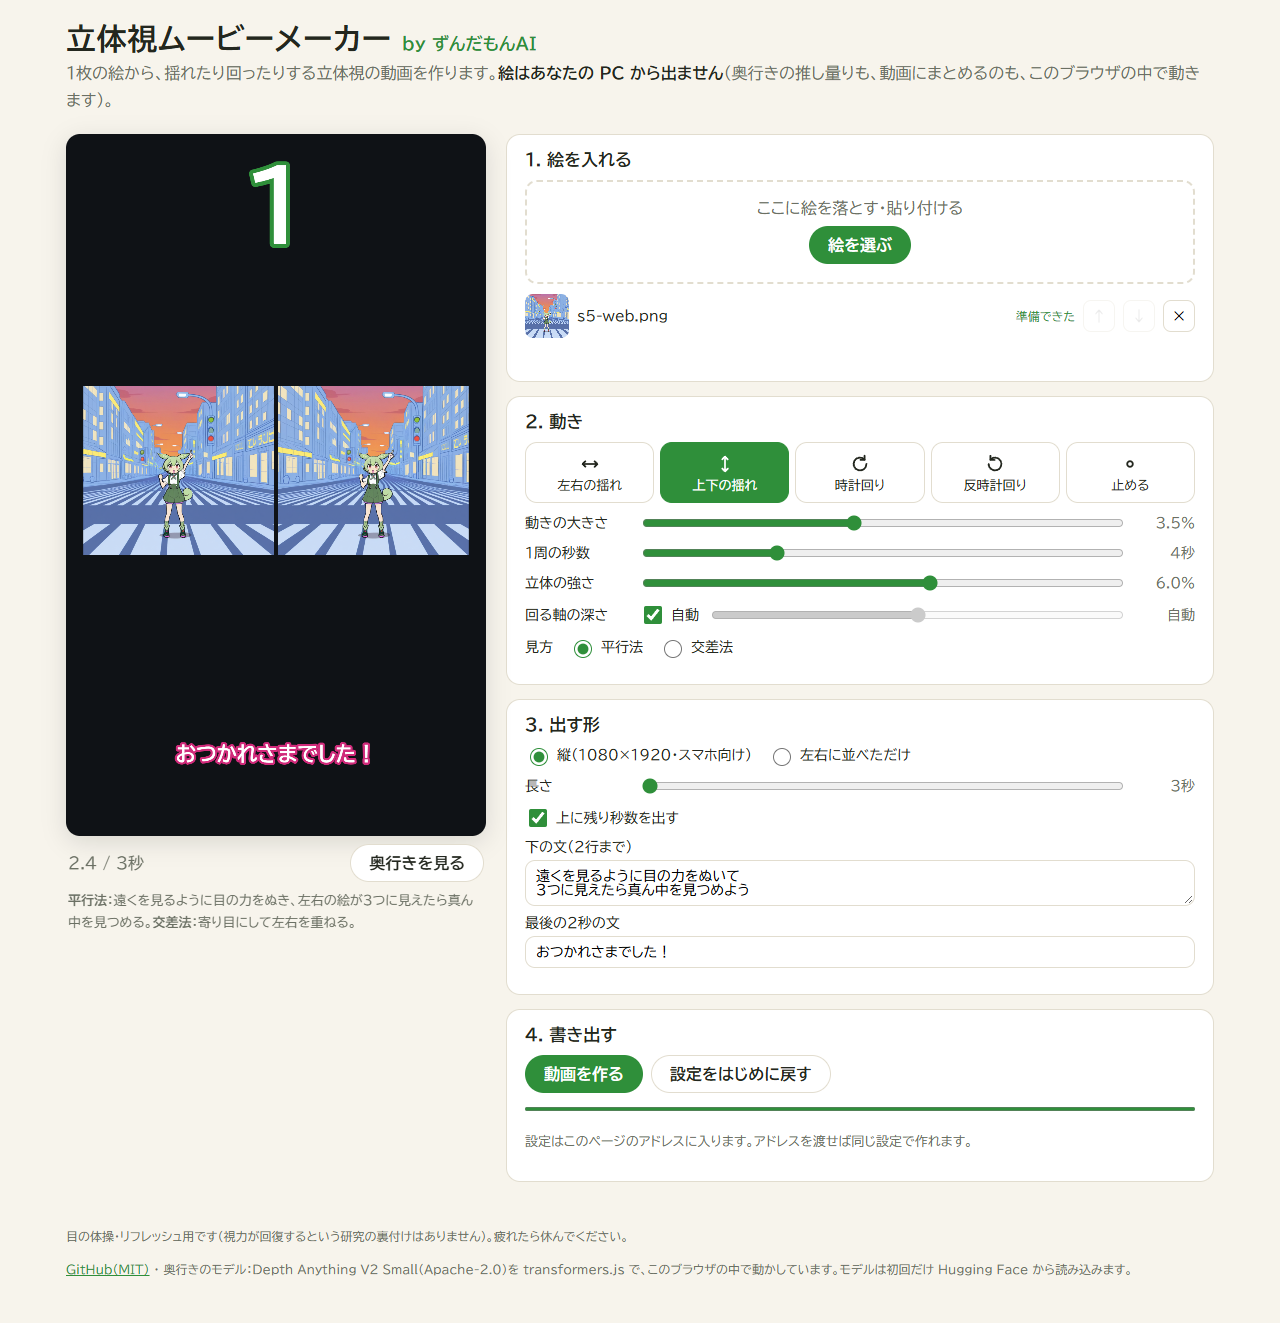
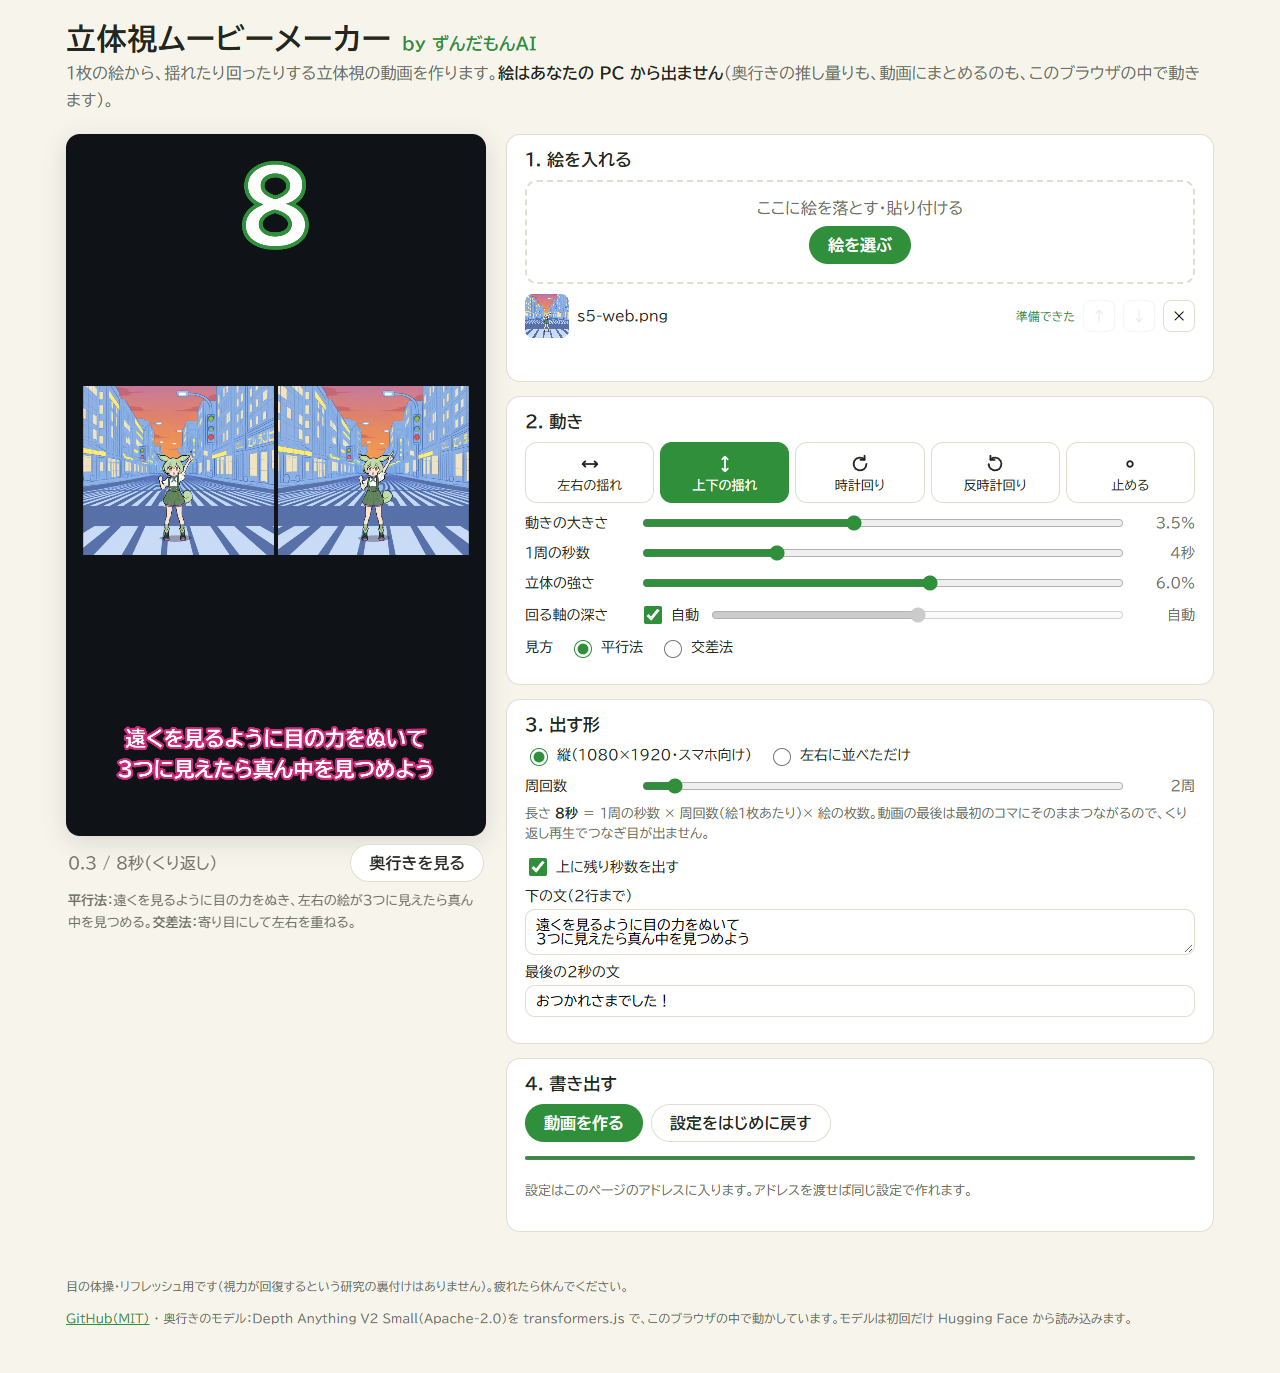
動画をいつも永久ループに：長さ＝1周×周回数×枚数だけ・最後と最初が同じコマにならない・検査（check:loop）・AI の口は頼むたびにはじめの設定から

diff --git a/src/scene.ts b/src/scene.ts
@@ -18,8 +18,7 @@ export type Settings = {
   pivot: number; // 回る軸の深さ（0＝一番奥・1＝一番手前・-1＝絵ごとに自動）
   view: 'parallel' | 'cross'; // 平行法／交差法
   layout: 'portrait' | 'sbs'; // 縦 1080×1920 のまん中／横並びそのまま
-  seconds: number; // 動画の長さ
-  perImage: number; // 1枚あたりの秒数（絵が2枚以上のとき）
+  cycles: number; // 1枚あたりの周回数（長さ＝1周の秒数×周回数×絵の枚数＝必ず最初のコマにつながる）
   countdown: boolean; // 残り秒数を出す
   caption: string; // 下の文（改行で2行まで）
   endText: string; // 最後の2秒に下の文の代わりに出す文
@@ -34,8 +33,7 @@ export const DEFAULTS: Settings = {
   pivot: -1,
   view: 'parallel',
   layout: 'portrait',
-  seconds: 15,
-  perImage: 10,
+  cycles: 4,
   countdown: true,
   caption: '遠くを見るように目の力をぬいて\n3つに見えたら真ん中を見つめよう',
   endText: 'おつかれさまでした！',
@@ -48,22 +46,28 @@ export function clampSettings(s: Settings): Settings {
     ...s,
     motion: MOTIONS.some((m) => m.id === s.motion) ? s.motion : DEFAULTS.motion,
     amount: n(s.amount, 0, 10, DEFAULTS.amount),
-    period: n(s.period, 1, 30, DEFAULTS.period),
+    // 1周がちょうど整数のコマになるように丸める（最後のコマの次が最初のコマにつながる）
+    period: Math.max(1, Math.round(n(s.period, 1, 30, DEFAULTS.period) * n(s.fps, 10, 60, 30)) / n(s.fps, 10, 60, 30)),
     stereo: n(s.stereo, 0, 12, DEFAULTS.stereo),
     pivot: s.pivot < 0 ? -1 : n(s.pivot, 0, 1, 0.5),
     view: s.view === 'cross' ? 'cross' : 'parallel',
     layout: s.layout === 'sbs' ? 'sbs' : 'portrait',
-    seconds: n(s.seconds, 1, 180, DEFAULTS.seconds),
-    perImage: n(s.perImage, 1, 180, DEFAULTS.perImage),
+    cycles: Math.round(n(s.cycles, 1, 60, DEFAULTS.cycles)),
     fps: n(s.fps, 10, 60, 30),
     caption: String(s.caption ?? '').slice(0, 120),
     endText: String(s.endText ?? '').slice(0, 60),
   };
 }
 
+// 長さは「1周×周回数×絵の枚数」でしか決まらない＝動画はいつも永久ループになる（本人 2026-10-26「最初の画像に戻れば永久ループに」）
+export const framesPerCycle = (s: Settings) => Math.max(1, Math.round(s.period * s.fps));
+export const totalFrames = (s: Settings, images: number) => framesPerCycle(s) * s.cycles * Math.max(1, images);
+export const totalSeconds = (s: Settings, images: number) => totalFrames(s, images) / s.fps;
+const perImageSeconds = (s: Settings) => (framesPerCycle(s) * s.cycles) / s.fps;
+
 // カメラの位置（幅に対する割合の単位・下が＋）
 function cam(s: Settings, t: number): [number, number] {
-  const a = s.amount / 100, w = (2 * Math.PI * t) / s.period;
+  const a = s.amount / 100, w = (2 * Math.PI * t) / (framesPerCycle(s) / s.fps);
   switch (s.motion) {
     case 'sway-x': return [a * Math.sin(w), 0];
     case 'sway-y': return [0, a * Math.sin(w)];
@@ -120,7 +124,7 @@ export function outputSize(s: Settings, layers: Layer[]): [number, number] {
 
 export function layerAt(s: Settings, layers: Layer[], t: number): Layer {
   if (layers.length <= 1) return layers[0];
-  const i = Math.floor(t / s.perImage) % layers.length;
+  const i = Math.floor(t / perImageSeconds(s) + 1e-9) % layers.length;
   return layers[i];
 }
 
@@ -165,7 +169,7 @@ export function drawFrame(r: Renderer, f: Frame, s: Settings, layers: Layer[], t
   ctx.textBaseline = 'middle';
   ctx.lineJoin = 'round';
   if (s.countdown) {
-    const left = Math.max(0, Math.ceil(s.seconds - t - 1e-6));
+    const left = Math.max(0, Math.ceil(totalSeconds(s, layers.length) - t - 1e-6));
     ctx.font = `900 260px ${FONT}`;
     ctx.lineWidth = 22;
     ctx.strokeStyle = '#2f8f3a';
@@ -173,7 +177,7 @@ export function drawFrame(r: Renderer, f: Frame, s: Settings, layers: Layer[], t
     ctx.fillStyle = '#ffffff';
     ctx.fillText(String(left), W / 2, boxTop / 2 + 10);
   }
-  const ending = s.endText && s.seconds - t <= 2;
+  const ending = s.endText && totalSeconds(s, layers.length) - t <= 2;
   const lines = (ending ? s.endText : s.caption).split('\n').slice(0, 2).filter(Boolean);
   ctx.font = `700 56px ${FONT}`;
   const below = boxTop + maxH;

diff --git a/src/main.ts b/src/main.ts
@@ -1,7 +1,7 @@
 import './style.css';
 import { prepare, loadModel, type Prepared } from './depth';
 import { Renderer, type Layer } from './render';
-import { DEFAULTS, MOTIONS, clampSettings, drawFrame, layerAt, type Settings, type Frame } from './scene';
+import { DEFAULTS, MOTIONS, clampSettings, drawFrame, layerAt, totalFrames, totalSeconds, type Settings, type Frame } from './scene';
 import { encodeVideo } from './export';
 
 // ---- 状態 ----
@@ -114,7 +114,7 @@ function renderList() {
   $('#empty').hidden = items.length > 0;
   // 奥行きは、準備できた絵があるときだけ見られる
   $<HTMLButtonElement>('#depth').disabled = !items.some((i) => i.status === 'ok');
-  $('#per-image-row').hidden = items.length < 2;
+  updateLength();
 }
 
 function status(msg: string) {
@@ -141,8 +141,7 @@ function buildControls() {
   num('amount', '#amount');
   num('period', '#period');
   num('stereo', '#stereo');
-  num('seconds', '#seconds');
-  num('perImage', '#perImage');
+  num('cycles', '#cycles');
   const pivot = $<HTMLInputElement>('#pivot'), pivotAuto = $<HTMLInputElement>('#pivotAuto');
   pivot.addEventListener('input', () => setSettings({ pivot: Number(pivot.value) / 100 }));
   pivotAuto.addEventListener('change', () => setSettings({ pivot: pivotAuto.checked ? -1 : 0.5 }));
@@ -165,8 +164,8 @@ function syncControls() {
   set('#amount', settings.amount, '#amountV', (v) => `${v.toFixed(1)}%`);
   set('#period', settings.period, '#periodV', (v) => `${v}秒`);
   set('#stereo', settings.stereo, '#stereoV', (v) => `${v.toFixed(1)}%`);
-  set('#seconds', settings.seconds, '#secondsV', (v) => `${v}秒`);
-  set('#perImage', settings.perImage, '#perImageV', (v) => `${v}秒`);
+  set('#cycles', settings.cycles, '#cyclesV', (v) => `${v}周`);
+  updateLength();
   const auto = settings.pivot < 0;
   $<HTMLInputElement>('#pivotAuto').checked = auto;
   $<HTMLInputElement>('#pivot').disabled = auto;
@@ -180,6 +179,13 @@ function syncControls() {
   const end = $<HTMLInputElement>('#endText');
   if (document.activeElement !== end) end.value = settings.endText;
   $('#text-rows').hidden = settings.layout !== 'portrait';
+}
+
+// 長さは計算で決まる（自由に決めない＝必ずループになる）
+function updateLength() {
+  const n = Math.max(1, items.filter((i) => i.status === 'ok').length);
+  const sec = totalSeconds(settings, n);
+  $('#lengthV').textContent = `${Number(sec.toFixed(2))}秒` + (n > 1 ? `（${n}枚）` : '');
 }
 
 function motionIcon(m: string): string {
@@ -198,10 +204,11 @@ let t0 = performance.now();
 function loop(now: number) {
   if (!exporting) {
     const ls = layers();
-    const t = ((now - t0) / 1000) % settings.seconds;
+    const total = totalSeconds(settings, ls.length);
+    const t = ((now - t0) / 1000) % total;
     if (showDepth && ls.length) drawDepth(layerAt(settings, ls, t));
     else drawFrame(renderer, frame, settings, ls, t);
-    $('#time').textContent = ls.length ? `${t.toFixed(1)} / ${settings.seconds}秒` : '';
+    $('#time').textContent = ls.length ? `${t.toFixed(1)} / ${Number(total.toFixed(2))}秒（くり返し）` : '';
   }
   requestAnimationFrame(loop);
 }
@@ -224,7 +231,7 @@ async function exportVideo(): Promise<{ blob: Blob; ext: string }> {
   const ls = layers();
   if (!ls.length) throw new Error('先に絵を入れてください');
   const fps = settings.fps;
-  const n = Math.round(settings.seconds * fps);
+  const n = totalFrames(settings, ls.length);
   exporting = true;
   stopFlag = false;
   try {
@@ -300,7 +307,7 @@ window.stereoMotion = {
   },
   setSettings(p: Partial<Settings>) { setSettings(p); return settings; },
   getSettings() { return settings; },
-  frameCount() { return Math.round(settings.seconds * settings.fps); },
+  frameCount() { return totalFrames(settings, layers().length); },
   frame(i: number, type = 'image/jpeg', quality = 0.95) {
     exporting = true;
     drawFrame(renderer, frame, settings, layers(), i / settings.fps);

diff --git a/index.html b/index.html
@@ -33,7 +33,6 @@
       </div>
       <p id="empty" class="muted">何枚でも入れられます。2枚以上なら順番に切り替わります。</p>
       <ul id="items" class="items"></ul>
-      <label id="per-image-row" class="row" hidden>1枚の秒数 <input type="range" id="perImage" min="2" max="60" step="1"><output id="perImageV"></output></label>
       <p id="status" class="status" role="status"></p>
     </div>
 
@@ -59,7 +58,8 @@
         <label class="chk"><input type="radio" name="layout" value="portrait">縦（1080×1920・スマホ向け）</label>
         <label class="chk"><input type="radio" name="layout" value="sbs">左右に並べただけ</label>
       </div>
-      <label class="row">長さ <input type="range" id="seconds" min="3" max="120" step="1"><output id="secondsV"></output></label>
+      <label class="row">周回数 <input type="range" id="cycles" min="1" max="20" step="1"><output id="cyclesV"></output></label>
+      <p class="row-note">長さ <b id="lengthV"></b> ＝ 1周の秒数 × 周回数（絵1枚あたり）× 絵の枚数。動画の最後は最初のコマにそのままつながるので、くり返し再生でつなぎ目が出ません。</p>
       <div id="text-rows">
         <label class="chk"><input type="checkbox" id="countdown">上に残り秒数を出す</label>
         <label class="col">下の文（2行まで）<textarea id="caption" rows="2"></textarea></label>

diff --git a/src/style.css b/src/style.css
@@ -50,6 +50,8 @@ body { margin: 0; }
 .row output { text-align: right; font-variant-numeric: tabular-nums; color: var(--muted); }
 .row.radios { display: flex; flex-wrap: wrap; gap: 6px 16px; }
 .row:has(#pivotAuto) { grid-template-columns: 7.5em auto 1fr 4.5em; }
+.row-note { margin: -2px 0 10px; font-size: 13px; color: var(--muted); line-height: 1.6; }
+.row-note b { color: var(--ink); font-variant-numeric: tabular-nums; }
 .col { display: grid; gap: 6px; margin: 10px 0; font-size: 14px; }
 .chk { display: inline-flex; align-items: center; gap: 6px; font-size: 14px; }
 input[type=range] { width: 100%; accent-color: var(--green); }

diff --git a/README.md b/README.md
@@ -25,7 +25,8 @@
 
 - **動き**：左右の揺れ／上下の揺れ／時計回り（カメラが右→下→左→上と円を描く）／反時計回り／止める
 - **大きさ・1周の秒数・立体の強さ（左右のずれ）・回る軸の深さ**（はじめは絵の真ん中あたりの深さ＝人物のまわりを回る）
-- **絵を何枚でも**入れて、1枚あたりの秒数ごとに順番に切り替え
+- **いつも永久ループ**：長さは「1周の秒数 × 周回数 × 絵の枚数」でしか決まりません。動画の最後のコマの次が最初のコマにそのままつながるので、くり返し再生してもつなぎ目が出ません
+- **絵を何枚でも**入れられます。1枚ごとに決まった周回数を回り、ちょうど回り終えた所で次の絵に替わります
 - **縦 1080×1920**（スマホ・ショート動画向け。上に残り秒数、下に2行の文、最後の2秒に締めの文）か、**左右に並べただけ**の形
 - 設定はページのアドレスに入るので、アドレスを渡せば同じ設定で作れます
 - 奥行きの絵を見る・確かめる
@@ -53,12 +54,25 @@ claude mcp add stereo-motion -- node /path/to/stereo-motion/mcp/server.mjs
 
 道具：
 
-- `make_stereo_video`：絵のパス（1枚以上）と設定（`motion`・`amount`・`period`・`stereo`・`pivot`・`view`・`layout`・`seconds`・`perImage`・`countdown`・`caption`・`endText`）から MP4 を作り、そのパスを返します
+- `make_stereo_video`：絵のパス（1枚以上）と設定（`motion`・`amount`・`period`・`stereo`・`pivot`・`view`・`layout`・`cycles`・`countdown`・`caption`・`endText`。`seconds` を渡すと近い周回数に丸めます）から MP4 を作り、そのパスを返します
 - `list_motions`：動きの種類とはじめの設定
 
-コマンドで試す：`node mcp/cli.mjs --motion cw --seconds 8 --out out.mp4 image.png`
+コマンドで試す：`node mcp/cli.mjs --motion cw --cycles 2 --out out.mp4 image.png`
 
 画面の書き出しが使えない環境では、毎コマの絵を受け取って [ffmpeg](https://ffmpeg.org/) でまとめます（ffmpeg が要ります）。
+
+## 永久ループの検査
+
+よくある凡ミス（最後のコマと最初のコマが同じ絵で、くり返すと同じ絵が2コマ続いてカクッと止まる）が起きていないことを、4つの動きで確かめます。
+
+```bash
+npm run build
+npm run check:loop -- image.png
+```
+
+書き出した動画のコマ数がちょうど「1周×周回数×枚数」であること・描かない次のコマが最初のコマとまったく同じ（1周がぴったり閉じている）こと・最後のコマから最初のコマへの変わり方が、となり合うコマどうしと同じ大きさであることを見ます。
+
+※ 動画の部品（WebCodecs）が無い古いブラウザでは画面を録画して書き出すので、コマ数がぴったりにならないことがあります（PC の Chrome・Edge・新しい Safari は部品があるのでぴったりです）。
 
 ## 手元で動かす
 

diff --git a/STATUS.md b/STATUS.md
@@ -7,3 +7,10 @@
 - 確かめたこと：PC の Chrome（見えない形）で4つの動き・絵3枚の切り替え・AI の口（MCP のやりとり）・公開版・個人サイトの埋め込みで、絵を入れてから MP4 まで約12秒。iPhone の画面（Windows の WebKit）では、画面の並び・ボタンの反応・個人サイトの埋め込みの表示まで。
 - ⚠ 確かめられていない：本物の iPhone で絵の下ごしらえと書き出しが通るか。Windows の WebKit には OffscreenCanvas と録画の部品が無く、そこで止まる（本物の Safari は iOS 16.4 から両方ある）。足りないブラウザでは「PC の Chrome・Edge か iOS 16.4 以降の Safari で」と出す。
 - 見本の絵（README の動く絵）＝ざっくりラーニング ep005 の場面5の絵（本人の TensorArt の絵）。
+
+## 2026-10-26 いつも永久ループに
+- 本人「動画は必ず永久ループになるようにしか作成できないように」「最後の1フレームと最初の1フレームが同じ画像で2フレームになる凡ミスに気を付けて」。
+- 長さの自由な設定（秒・1枚の秒数）を外し、長さ＝1周の秒数（ちょうど整数のコマに丸める）×周回数×絵の枚数だけにした。描くのは 0〜N-1 コマ（N コマ目＝0 コマ目は描かない）。絵は回り終えた所で替わる。
+- 検査＝`npm run check:loop -- 絵.png`（コマ数・N コマ目＝0 コマ目・最後→最初の差＝となりのコマどうしと同じ）。4つの動きで通った。
+- 残り秒数と下の文は、動画が頭に戻ると最初の表示に戻る（絵の動きのつながりを優先した読み）。録画で書き出す古いブラウザではコマ数がぴったりにならないことがある。
+- AI の口：頼むたびにはじめの設定から組み直す（前の依頼の設定が残る不具合を直した）・`seconds` は近い周回数に丸める。
